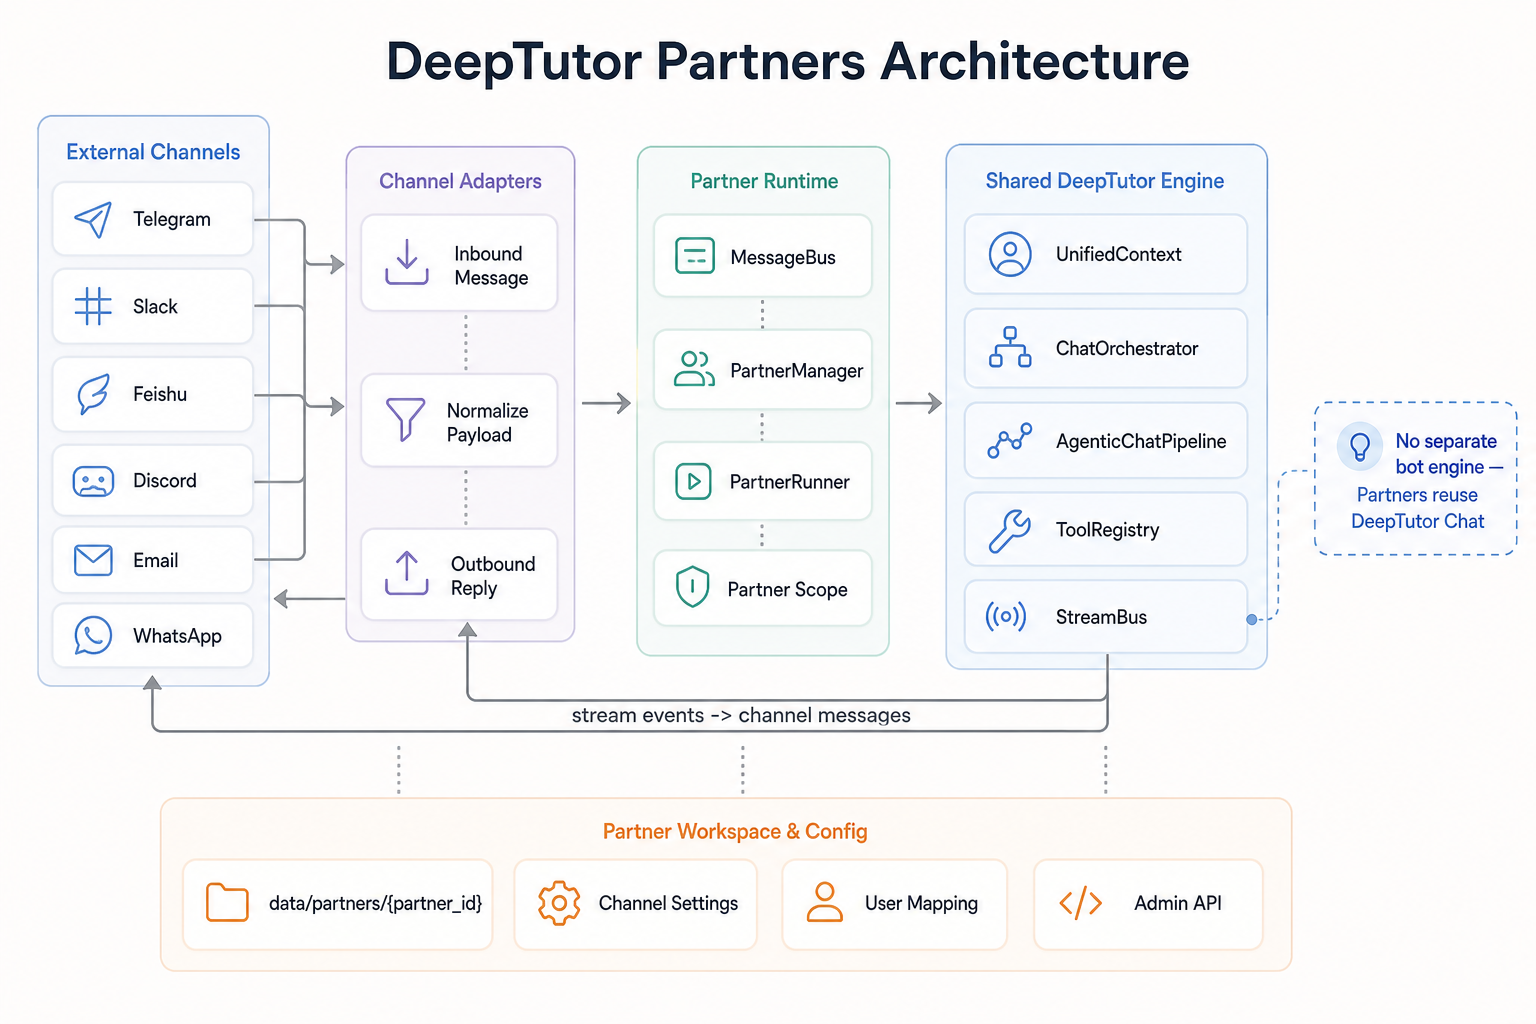
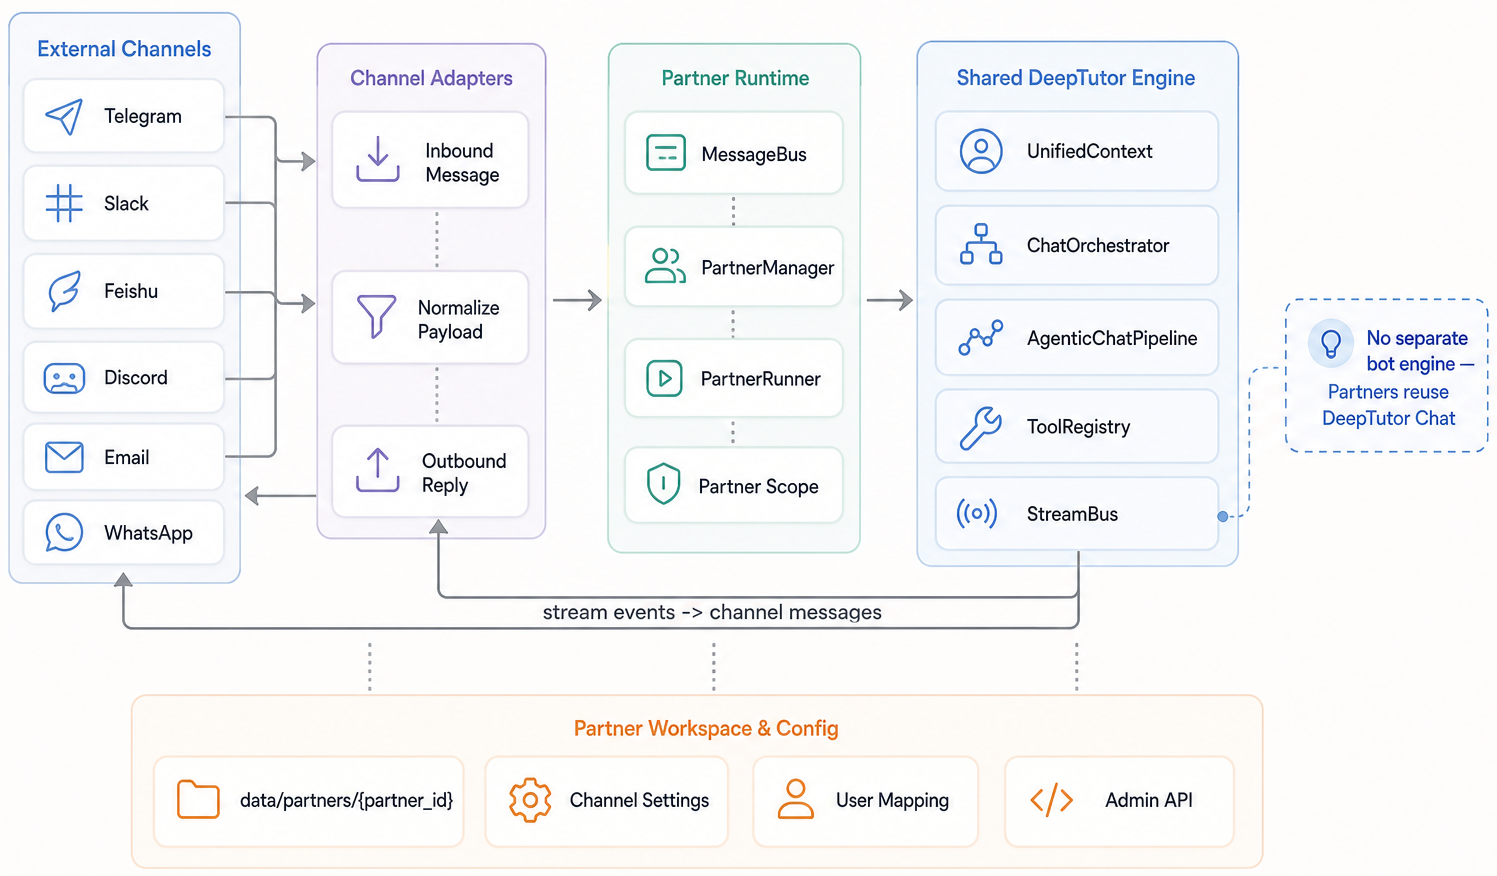
update

diff --git a/web/app/(workspace)/partners/[partnerId]/page.tsx b/web/app/(workspace)/partners/[partnerId]/page.tsx
@@ -10,6 +10,7 @@ import Link from "next/link";
 import { useParams, useRouter, useSearchParams } from "next/navigation";
 import {
   ArrowLeft,
+  Archive,
   Loader2,
   MessageCircle,
   Play,
@@ -30,8 +31,9 @@ import PartnerAvatar from "@/components/partners/PartnerAvatar";
 import PartnerChat from "@/components/partners/PartnerChat";
 import PartnerChannels from "@/components/partners/PartnerChannels";
 import PartnerConfigure from "@/components/partners/PartnerConfigure";
+import PartnerArchives from "@/components/partners/PartnerArchives";
 
-type Tab = "chat" | "configure" | "channels";
+type Tab = "chat" | "configure" | "channels" | "archive";
 
 function PartnerDetail() {
   const params = useParams<{ partnerId: string }>();
@@ -42,7 +44,9 @@ function PartnerDetail() {
 
   const initialTab = (searchParams.get("tab") as Tab) || "chat";
   const [tab, setTab] = useState<Tab>(
-    ["chat", "configure", "channels"].includes(initialTab) ? initialTab : "chat",
+    ["chat", "configure", "channels", "archive"].includes(initialTab)
+      ? initialTab
+      : "chat",
   );
   const [partner, setPartner] = useState<PartnerInfo | null>(null);
   const [loading, setLoading] = useState(true);
@@ -128,6 +132,7 @@ function PartnerDetail() {
     { key: "chat", label: t("Chat"), icon: MessageCircle },
     { key: "configure", label: t("Configure"), icon: Settings2 },
     { key: "channels", label: t("Channels"), icon: Radio },
+    { key: "archive", label: t("Archive"), icon: Archive },
   ];
 
   return (
@@ -221,6 +226,10 @@ function PartnerDetail() {
               color={partner.color}
               avatar={partner.avatar}
             />
+          </div>
+        ) : tab === "archive" ? (
+          <div className="mx-auto h-full max-w-5xl overflow-hidden px-5 py-5">
+            <PartnerArchives partnerId={partnerId} onToast={setToast} />
           </div>
         ) : (
           <div className="mx-auto h-full max-w-3xl overflow-y-auto px-5 py-5">

diff --git a/web/components/partners/PartnerChat.tsx b/web/components/partners/PartnerChat.tsx
@@ -39,6 +39,11 @@ interface ChatMsg {
   error?: boolean;
 }
 
+function resetsVisibleConversation(content: string) {
+  const command = content.trim().split(/\s+/, 1)[0]?.toLowerCase();
+  return command === "/new" || command === "/clear";
+}
+
 export default function PartnerChat({
   partnerId,
   partnerName,
@@ -193,7 +198,11 @@ export default function PartnerChat({
       wsRef.current.send(
         JSON.stringify({ content, session_id: sessionIdRef.current }),
       );
-      setMessages((msgs) => [...msgs, { role: "user", content }]);
+      if (resetsVisibleConversation(content)) {
+        setMessages([]);
+      } else {
+        setMessages((msgs) => [...msgs, { role: "user", content }]);
+      }
       setDraft({ events: [], content: "" });
       setStreaming(true);
       scrollToBottom();

diff --git a/tests/services/partners/test_partner_runtime.py b/tests/services/partners/test_partner_runtime.py
@@ -320,3 +320,52 @@ class TestContextAssembly:
             "role": "assistant",
             "content": "first reply",
         } in context.conversation_history
+
+
+class TestPartnerCommands:
+    @pytest.mark.asyncio
+    async def test_new_archives_current_session_without_calling_orchestrator(
+        self, partners_root, fake_orchestrator
+    ):
+        fake_orchestrator.script = _finish("first reply")
+        runner = _runner(partners_root)
+        await runner.process_message(_msg("first question"))
+        assert len(fake_orchestrator.seen_contexts) == 1
+
+        reply = await runner.process_message(_msg("/new"))
+
+        assert "Started a new conversation" in reply
+        assert len(fake_orchestrator.seen_contexts) == 1
+        assert runner.store.conversation_history("telegram:42") == []
+        archived = [session for session in runner.store.list_sessions() if session["archived"]]
+        assert len(archived) == 1
+        assert archived[0]["message_count"] == 2
+        assert archived[0]["session_key"].startswith("_archived_")
+
+    @pytest.mark.asyncio
+    async def test_archived_session_does_not_feed_next_turn(
+        self, partners_root, fake_orchestrator
+    ):
+        runner = _runner(partners_root)
+        fake_orchestrator.script = _finish("old reply")
+        await runner.process_message(_msg("old question"))
+        await runner.process_message(_msg("/new"))
+
+        fake_orchestrator.script = _finish("fresh reply")
+        await runner.process_message(_msg("fresh question"))
+
+        context = fake_orchestrator.seen_contexts[-1]
+        assert context.conversation_history == []
+
+    @pytest.mark.asyncio
+    async def test_telegram_bot_command_suffix_is_supported(
+        self, partners_root, fake_orchestrator
+    ):
+        fake_orchestrator.script = _finish("first reply")
+        runner = _runner(partners_root)
+        await runner.process_message(_msg("first question"))
+
+        reply = await runner.process_message(_msg("/new@DeepTutorBot"))
+
+        assert "Started a new conversation" in reply
+        assert len(fake_orchestrator.seen_contexts) == 1

diff --git a/deeptutor/partners/channels/telegram.py b/deeptutor/partners/channels/telegram.py
@@ -20,6 +20,7 @@ from deeptutor.partners.channels.base import BaseChannel
 from deeptutor.partners.config.paths import get_media_dir
 from deeptutor.partners.config.schema import Base, DeliveryOverrides, StreamingSupport
 from deeptutor.partners.helpers import split_message
+from deeptutor.services.partners.commands import build_partner_help_text, partner_command_palette
 
 TELEGRAM_MAX_MESSAGE_LEN = 4000  # Telegram message character limit
 TELEGRAM_REPLY_CONTEXT_MAX_LEN = (
@@ -179,12 +180,14 @@ class TelegramChannel(BaseChannel):
     name = "telegram"
     display_name = "Telegram"
 
-    # Commands registered with Telegram's command menu. Only commands the
-    # partner runtime actually handles belong here — the agent loop has no
-    # command router, so anything else would be silently broken UX.
+    # Commands registered with Telegram's command menu. Keep this generated
+    # from the partner command registry so Telegram and Web stay in sync.
     BOT_COMMANDS = [
         BotCommand("start", "Start the bot"),
-        BotCommand("help", "Show available commands"),
+        *[
+            BotCommand(spec["command"].removeprefix("/"), spec["description"])
+            for spec in partner_command_palette()
+        ],
     ]
 
     @classmethod
@@ -264,7 +267,8 @@ class TelegramChannel(BaseChannel):
         self._app.add_handler(CommandHandler("start", self._on_start))
         self._app.add_handler(CommandHandler("help", self._on_help))
 
-        # Add message handler for text, photos, voice, documents
+        # Add message handler for text, photos, voice, documents. Runtime
+        # slash commands like /new must reach the partner command router.
         self._app.add_handler(
             MessageHandler(
                 (
@@ -273,8 +277,7 @@ class TelegramChannel(BaseChannel):
                     | filters.VOICE
                     | filters.AUDIO
                     | filters.Document.ALL
-                )
-                & ~filters.COMMAND,
+                ),
                 self._on_message,
             )
         )
@@ -485,13 +488,7 @@ class TelegramChannel(BaseChannel):
         """Handle /help command, bypassing ACL so all users can access it."""
         if not update.message:
             return
-        await update.message.reply_text(
-            "🐈 TutorBot commands:\n"
-            "/new — Start a new conversation\n"
-            "/stop — Stop the current task\n"
-            "/restart — Restart the bot\n"
-            "/help — Show available commands"
-        )
+        await update.message.reply_text(build_partner_help_text())
 
     @staticmethod
     def _sender_id(user) -> str:

diff --git a/deeptutor_cli/chat.py b/deeptutor_cli/chat.py
@@ -108,7 +108,7 @@ async def _chat_repl(state: ChatState) -> None:
         Panel(
             "[bold]DeepTutor CLI[/]\n"
             "Type a message to chat. Ctrl-C interrupts a running turn. Commands:\n"
-            "  /quit  /session  /new\n"
+            "  /quit  /session  /status  /new  /clear\n"
             "  /regenerate (alias /retry) — re-run the last user message\n"
             "  /tool on|off <name>\n"
             "  /cap <name>\n"
@@ -186,7 +186,10 @@ def _apply_command(raw: str, state: ChatState) -> bool:
     if command == "/session":
         console.print(f"session={state.session_id or '(new)'}")
         return True
-    if command == "/new":
+    if command == "/status":
+        _print_state(state)
+        return True
+    if command in {"/new", "/clear"}:
         state.session_id = None
         console.print("[dim]Started a new chat context.[/]")
         return True

diff --git a/deeptutor/services/partners/commands.py b/deeptutor/services/partners/commands.py
@@ -82,7 +82,7 @@ class PartnerCommandHandler:
         if not parts:
             return None
 
-        command = parts[0].lower()
+        command = parts[0].lower().split("@", 1)[0]
         args = parts[1:]
         if command == "/help":
             return PartnerCommandResult(build_partner_help_text())